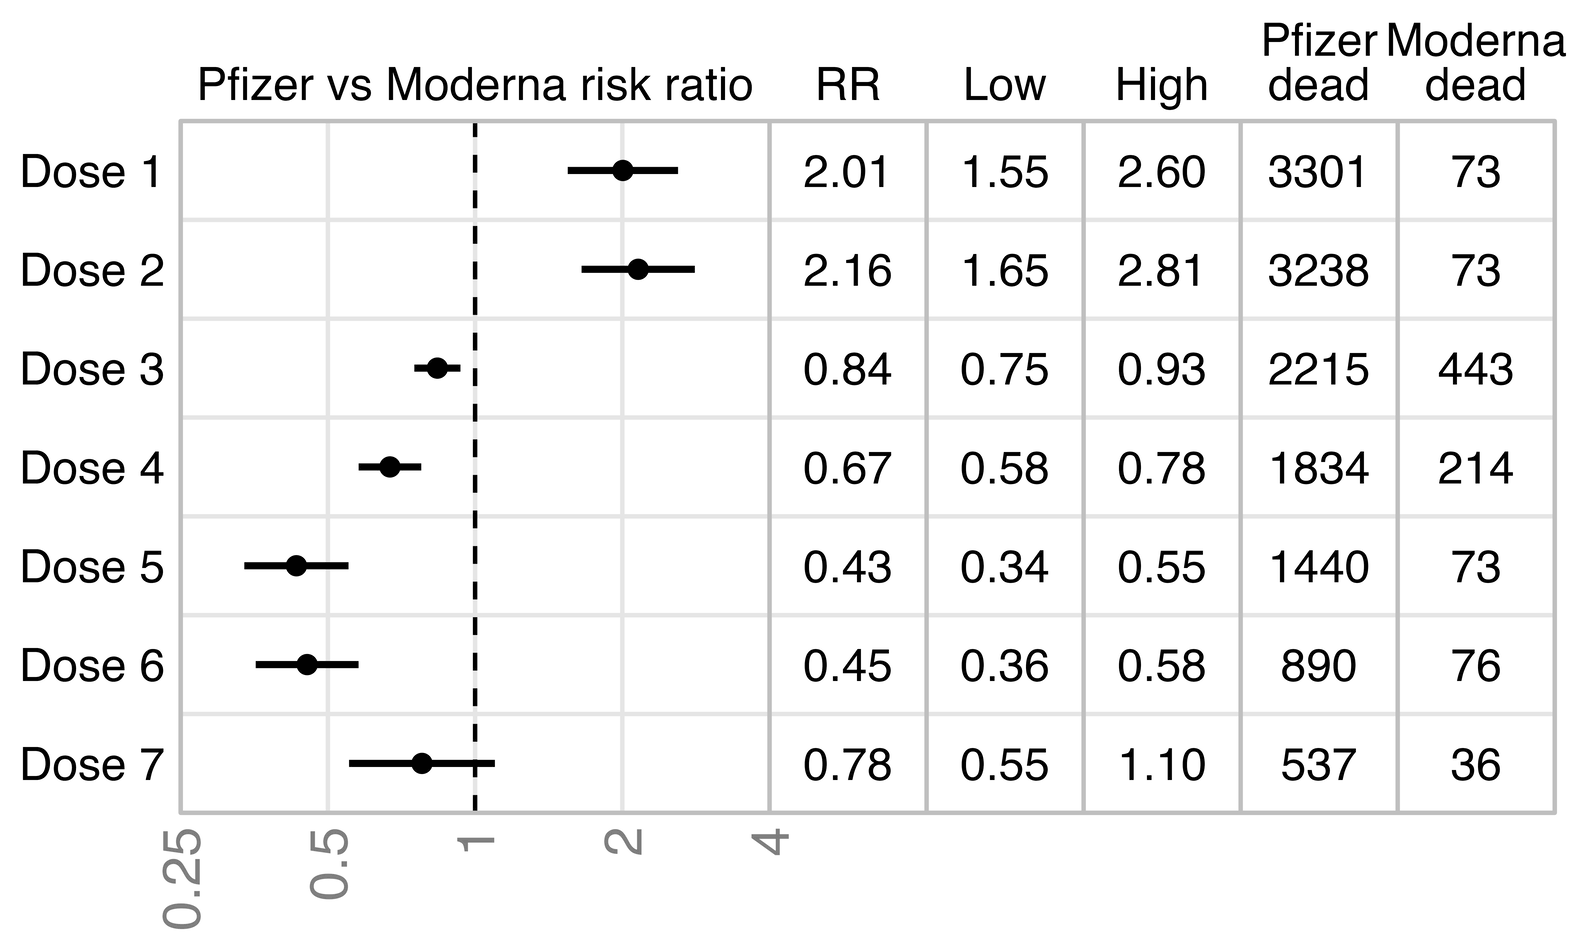
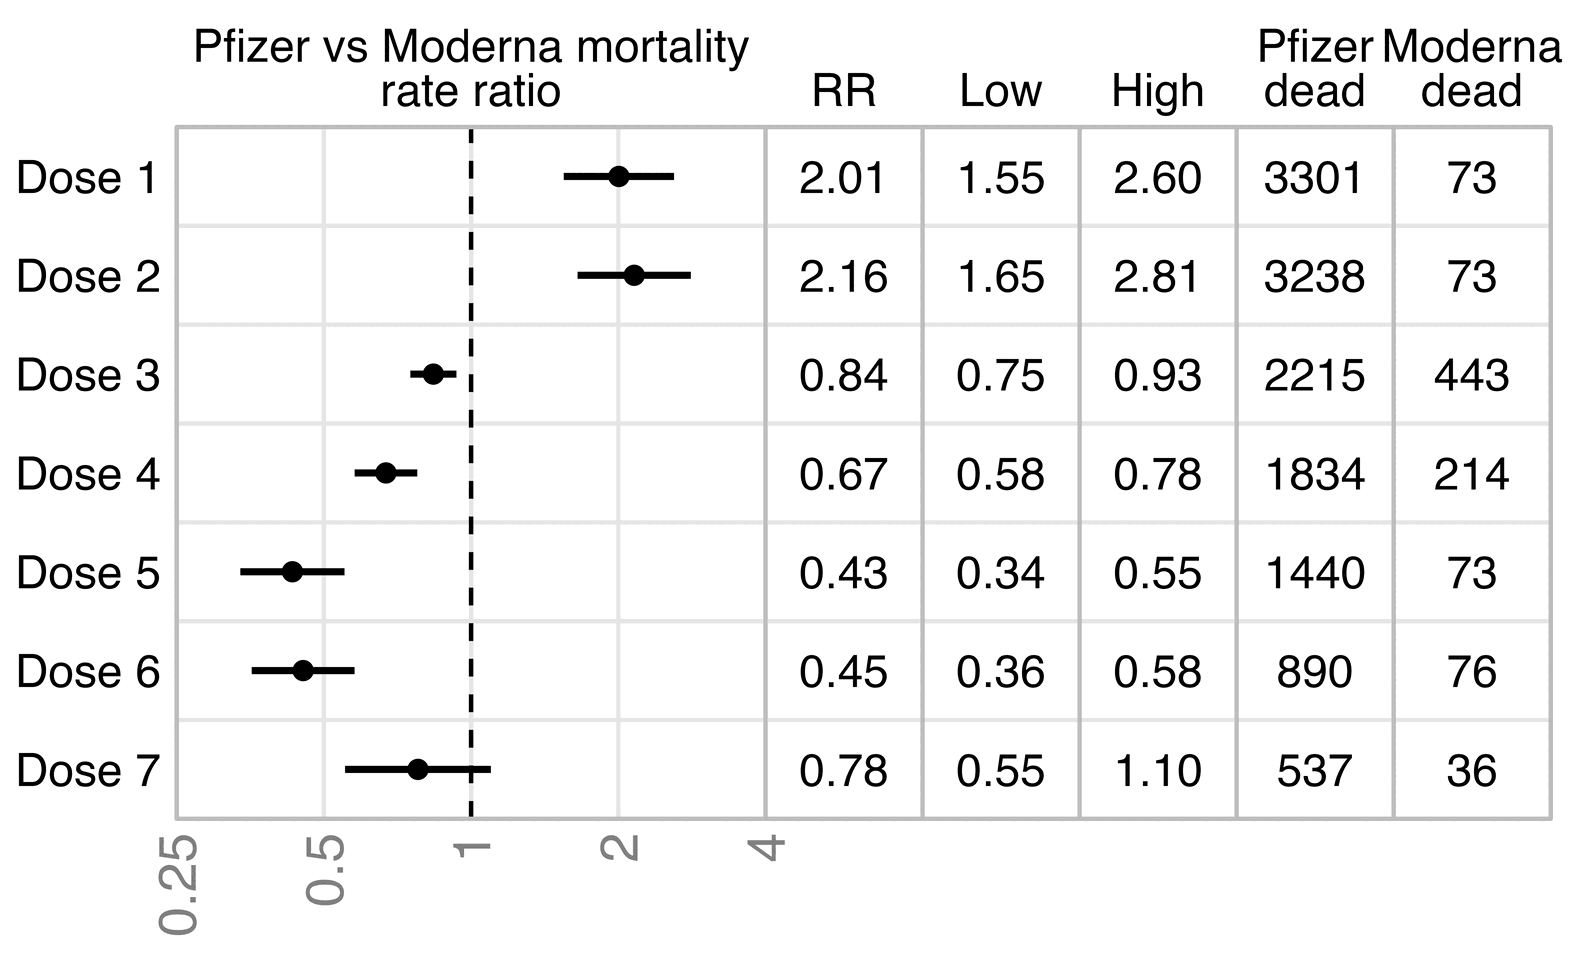
a

diff --git a/clot.html b/clot.html
@@ -1096,7 +1096,7 @@ RAIR Foundation
 <p>During the same interview, Mike Adams asked Hirschman to send another sample of clots to him, and he said <span class="quote">"By the way, just to honor the dead here. We are - you know, these people died, we believe from these clots. And I believe that if they could speak, they would want us to tell the world and sound out the alarm. And I don't want anyone out there to think, you know, that we are exploiting the tissues of these dead people for any kind of sensationalism."</span> [15:18]</p>
 <p>Even though that's exactly what Mike Adams did, when he claimed that the clots contained <span class="quote">"nanowire interface structures"</span>, and the clots contained electric circuits which may have made it possible to track people in a similar fashion as RFID chips, or which would've made it possible to kill people remotely by 5G or DEWs, or which would've caused people to die if there was a solar flare.</p>
 <p>Has Hirschman ever even said if he received consent from the families of the dead people to take samples from the dead bodies and send the samples all over the world? It seems like something embalmers wouldn't be allowed to do.</p>
-<p>Brenton Faithfull said that he didn't have any photos or samples of the clots because embalmers were not permitted to photograph dead bodies or remove samples from the bodies (even though the practice in the United States might be different from New Zealand): <span class="quote">"We've got to take into account the anonymity of of of patients. I don't have the authority to even photograph a deceased person, you know. The ethical dilemma that we face is as professionals - I think even permission to embalmer body is sought from a family - is in part of the contractual arrangements. And it's very loose, I think, most funeral homes have the same clause to perform any sanitary preservation in their judgment required, within the contract. Now that's a very loose term. Now, we don't have a license to practice anatomy, so technically we can't remove any samples. We're not allowed to."</span> [<a href=https://rumble.com/v1odcne-new-zealand-funeral-director-brenton-faithfull-first-interview..html?start=1754><a href="https://rumble.com/v1odcne-new-zealand-funeral-director-brenton-faithfull-first-interview" class="uri">https://rumble.com/v1odcne-new-zealand-funeral-director-brenton-faithfull-first-interview</a>..html?start=1754</a>]</p>
+<p>Brenton Faithfull said that he didn't have any photos or samples of the clots because embalmers were not permitted to photograph dead bodies or remove samples from the bodies (even though the practice in the United States might be different from New Zealand): <span class="quote">"We've got to take into account the anonymity of of of patients. I don't have the authority to even photograph a deceased person, you know. The ethical dilemma that we face is as professionals - I think even permission to embalmer body is sought from a family - is in part of the contractual arrangements. And it's very loose, I think, most funeral homes have the same clause to perform any sanitary preservation in their judgment required, within the contract. Now that's a very loose term. Now, we don't have a license to practice anatomy, so technically we can't remove any samples. We're not allowed to."</span> [<a href=https://rumble.com/v1odcne-new-zealand-funeral-director-brenton-faithfull-first-interview%2e.html?start=1754>https://rumble.com/v1odcne-new-zealand-funeral-director-brenton-faithfull-first-interview%2e.html?start=1754</a>]</p>
 <h3>
 <a href=#Interview_by_Wayne_Crouch_in_September_2022 id=Interview_by_Wayne_Crouch_in_September_2022>Interview by Wayne Crouch in September 2022</a>
 </h3>
@@ -1912,6 +1912,11 @@ ggsave(&quot;1.png&quot;,width=6,height=3.5,dpi=300*4)</pre>
 </div>
 <p>At time 1:21:34 Fitts said: <span class="quote">"We were part of a group of people trying to understand why there was spraying in the United States and all over the world, and what was in the spray, because it was causing Morgellons disease. You have these really unusual unnatural fibers that were getting into people's body. And we just did an interview with Clifford Carnicom who's been our sort of go-to source, and what he said is that the materials that he found in the spray are essentially the same materials that are getting into the injections."</span> I don't know if Carnicom meant spider silk, Morgellons fibers, Morgellons bacteria, or something else.</p>
 <p>At time 1:31:00 Fitts said: <span class="quote">"We - Ulli and I - had a lot of experience with Arne Burkhardt"</span>. I have an unpopular theory that Arne Burkhardt was a Quinta Columna type operative, but if he was connected to Fitts and Ulrike Granögger, then there's even more reason to be suspicious of him.</p>
+<hr />
+<p>In March 2022 when Matt Shelton spoke to a crowd outside the New Zealand parliament, he said <span class="quote">"I want to particularly recommend orwell.city - Orwell as in George Orwell's 1984 - orwell.city, and a site called lifeoftheblood.com"</span>. [<a href=https://rumble.com/vvaeng-dr.-matt-shelton-undeclared-components-found-in-covid-19-vaccines-18.02.22.html?start=121>https://rumble.com/vvaeng-dr.-matt-shelton-undeclared-components-found-in-covid-19-vaccines-18.02.22.html?start=121</a>] The orwell.city website now seems to be down, but it was a site that translated La Quinta Columna's content to English. [<a href=http://web.archive.org/web/20250522043914/https://www.orwell.city/>http://web.archive.org/web/20250522043914/https://www.orwell.city/</a>]</p>
+<p>He also said: <span class="quote">"We wrote on the 27th of September last year - to MedSafe administers - to alert that emerging finding from overseas of nanotechnology gadgets largely made of graphene, and known poisons in humans, in all the major brands tested. That work from Spain has now been confirmed elsewhere, including Germany, Austria, Argentina, and just last week, in a high-level science report from the UK, also with legally valid chain of custody proof. And you guys know what that means. That no fraud can have occurred, and the results are real."</span> [3:27] The Austrians probably refer to people at Arne Burkhardt's pathology conference. The website of the conference said that <span class="quote">"the press conference will also present the results of the analysis of COVID-19 vaccine samples by an Austrian research group"</span>. [<a href=https://pathologie-konferenz.de/en/>https://pathologie-konferenz.de/en/</a>]</p>
+<hr />
+<p>Hilary Butler who is a long-time anti-vaccine activist from New Zealand posted this comment at Substack: <span class="quote">"Dr Suzanne Humphries never spoke of nano bots or graphene. Matt Shelton visited Suzanne and persuaded her to hand over the files of her work under the guise of taking them to the police as evidence, only to go public and say anything he wanted to say. He will corroborate that he got the images from Dr Suzanne. Dr Suzanne wrote about Semmelweis in Dissolving Illusions and I happen to know that she used the name Nate Semmelwies early on (on masksaredangerous site which was created in a rush by an amateur friend of hers before covid vaccines were released when the mask issue was upsetting her) when she was anonymously talking about the images, only to later put them up on a site called lifeoftheblood, which she closed as she didn't want to keep paying for her server fees. She moved them to bitchute where they remain. Funny enough Jayne Ruby launched a surprise attack against Suzanne after the Joe Rogan podcast, where she accused Suzanne of <span class="quote">'coming out of nowhere'</span>."</span> [<a href=https://openvaet.substack.com/p/from-opioids-and-fraud-to-maga-and/comment/135014599>https://openvaet.substack.com/p/from-opioids-and-fraud-to-maga-and/comment/135014599</a>] I didn't actually see the name Nate Semmelweis mentioned in relation to the microscope images, but it was only mentioned in the earlier post on the website masksaredangerous.com.</p>
 <h3>
 <a href=#Azzard_Comrie id=Azzard_Comrie>Azzard Comrie</a>
 </h3>
@@ -1952,7 +1957,7 @@ ggsave(&quot;1.png&quot;,width=6,height=3.5,dpi=300*4)</pre>
 <div>
 <img src=i/clot-unholy.png width=400>
 </div>
-<p>Wayne Crouch is the <span class="quote">"head reporter"</span> at Australian National Review, which looks like an Aussie version of the Stew Peters Network. The front page of ANR's website even featured two interviews of Stew Peters: [<a href=https://anr.news>https://anr.news</a>]</p>
+<p>Wayne Crouch is the <span class="quote">"head reporter"</span> at Australian National Review, which looks like an Aussie version of the Stew Peters Network. When I wrote this, the front page of ANR's website even featured two interviews of Stew Peters: [<a href=https://anr.news>https://anr.news</a>]</p>
 <div>
 <img src=i/clot-anr.jpg width=300>
 </div>
@@ -3769,6 +3774,7 @@ a[,sum(dead[age&lt;50])/sum(dead)] # 0.05494073</pre>
 <a href=#Theresa_Long id=Theresa_Long>Theresa Long</a>
 </h3>
 <p>The DMED whistleblower Theresa Long is the person who is supposed to have randomly discovered Richard Hirschman by chance and connected him with Jane Ruby. Hirschman said: <span class="quote">"And then it happened that one of the whistleblowers - the DOD whistleblower, Dr. Theresa Long - just so happened to be attending a funeral service at one of the funeral homes that I do enbalming. And they got on this topic after the service - her and one of the funeral directors - and the funeral directors says, <span class="quote">'I know somebody you need to talk to.'</span> He put me in contact with her. I shared with her the images. And she was shocked because she was hearing things from soldiers that were having blood clots in their arms that were highly unusual. And so she ended up getting me in contact with Dr. Jane Ruby."</span> [<a href=https://rumble.com/v4buruf-truth-science-and-spirt-episode-6-rubbery-clots-conversation-with-richard-h.html?start=328>https://rumble.com/v4buruf-truth-science-and-spirt-episode-6-rubbery-clots-conversation-with-richard-h.html?start=328</a>] What makes Hirschman's chance encounter with Theresa Long even more suspicious is that Hirschman said that John O'Looney was one of his heroes, and he first saw a video by O'Looney around September, October, or November of 2021, which was before he met with Theresa Long by chance. [<a href=https://rumble.com/vucdbi-embalmer-richard-hirschman-reveals-novel-clotting-in-65-of-cases.html?start=1850>https://rumble.com/vucdbi-embalmer-richard-hirschman-reveals-novel-clotting-in-65-of-cases.html?start=1850</a>, <a href=https://rumble.com/v4buruf-truth-science-and-spirt-episode-6-rubbery-clots-conversation-with-richard-h.html?start=227>https://rumble.com/v4buruf-truth-science-and-spirt-episode-6-rubbery-clots-conversation-with-richard-h.html?start=227</a>]</p>
+<p>Theresa Long told Jane Ruby: <span class="quote">"You know, one of my nurses - her father died of COVID. And she and I were both kinda quietly - I mean, she was quietly fighting, I was not so quietly fighting. But she came back to me, and she said, <span class="quote">'Hey, the coroner mentioned to me that they knew my dad wasn't vaccinated.'</span> And she said - she asked, <span class="quote">'Why, how did you know that?'</span> And they said, <span class="quote">'Well, we didn't have to pull any of these clots out.'</span> And I said, <span class="quote">'What are - what are you talking about?'</span> And she said, <span class="quote">'Yeah. Here's his number. I though you might want to talk to him.'</span> So that is how that whole thing came about - and me meeting with Richard Hirschman - that just happened to occur because this nurse came to me."</span> [<a href=https://x.com/RealDrJaneRuby/status/1944124945874706944>https://x.com/RealDrJaneRuby/status/1944124945874706944</a>, time 2:23] It was not clear from her story how the coroner was connected to Hirschman.</p>
 <p>In 2024 Greg Hunter told Theresa Long that he believes that COVID vaccines change the DNA of vaccinated people. Then Theresa Long answered: <span class="quote">"I believe God's name is written on your DNA. The name of Yahweh. And Yahweh corresponds to the numbers 10-5-6-5, and that is the spacing of the base pairs in your DNA. And the 10th base pair, the 5th base pair, the 6th base pair, and then the 5th again, that's Yahweh."</span> [<a href=https://rumble.com/v5hysr1-fact-covid-vax-kills-and-injures-according-to-lt.-col.-dr.-theresa-long-md.html?start=2642>https://rumble.com/v5hysr1-fact-covid-vax-kills-and-injures-according-to-lt.-col.-dr.-theresa-long-md.html?start=2642</a>] Then Hunter said: <span class="quote">"And this does change that sequence. This does change that code."</span> And Long said: <span class="quote">"There is there is more and more research showing that it does change your DNA. Yeah that would be the basis for religious exemption."</span></p>
 <h3>
 <a href=#Todd_Callenders_claim_that_calamari_clots_are_5G_antennas id=Todd_Callenders_claim_that_calamari_clots_are_5G_antennas>Todd Callender's claim that calamari clots are 5G antennas</a>

diff --git a/fleming.html b/fleming.html
@@ -11,8 +11,8 @@ h2{font-size:1.7em}
 h3{font-size:1.3em}
 blockquote h2,blockquote h3{margin:.5em 0}
 blockquote ul,blockquote ol{margin:.4em 0}
-a{color:hsl(220,100%,75%)}
-a:visited{color:hsl(270,100%,75%)}
+a,a .quote{color:hsl(220,100%,75%)}
+a:visited,a .quote{color:hsl(270,100%,75%)}
 pre,code{white-space:pre-wrap;word-wrap:break-word;font:14px Menlo,'DejaVu Sans Mono','Liberation Mono',Consolas,monospace;background:#4a4a4a;color:white}
 pre{padding:4px}
 code{padding:1px}
@@ -699,7 +699,7 @@ $ awk &#39;$3==100&amp;&amp;$4&gt;=19&#39; Downloads/XRM91BX9013-Alignment.txt|c
 <div>
 <img src=i/modernagate-blast-2.png width=500>
 </div>
-<p>The total length of all sequences in the patent database in to March 2025 was about 28.3 billion bases. So about 4% of the total length was made up by sequences that were published before 2020 and that matched the keyword <span class="quote">"Moderna"</span>.</p>
+<p>The total length of all sequences in the patent database in March 2025 was about 28.3 billion bases. So about 4% of the total length was made up by sequences that were published before 2020 and that matched the keyword <span class="quote">"Moderna"</span>.</p>
 <p>This plot shows all matches with the same or lower expect value as the match to Jikky's 19-base segment:</p>
 <div>
 <img src=i/modernagate-blast-3.png width=1000>
@@ -1118,6 +1118,7 @@ AATGCGTCATCATCTGAAGCATTT   TATGCTTCAGATGATGACGCATAT
 <p>The scientific shortcomings of the aforementioned publication reflect the fact that the journal in which it was published is classified as a predatory journal. This particular journal does not meet even basic quality criteria, is not registered in recognized databases, has a very short review process and unclear review procedure, and does not have defined basic rules for presenting results and methodologies.</p>
 <p>The Slovak Academy of Sciences strictly condemns publishing in predatory journals and warns that publications published in this way do not bring value and are of no importance to the scientific community, medical practice, or the public.</p>
 </blockquote>
+<p>The paper by Fleming, Kotlár, and Pekova was published in a journal of the predatory publisher Herald Scholarly Open Access. [<a href=https://www.heraldopenaccess.us/openaccess/quantitative-analysis-of-nucleic-acid-content-in-spikevax-moderna-and-bnt162b2-pfizer-covid-19-vaccine-lots>https://www.heraldopenaccess.us/openaccess/quantitative-analysis-of-nucleic-acid-content-in-spikevax-moderna-and-bnt162b2-pfizer-covid-19-vaccine-lots</a>] One of their journals published a paper by Hellsing et al. about the benefit of garlic in fighting vampires, which said the purpose of the paper was <span class="quote">"improving the stature of vampire hunting among the scientifically literate populace, and testing whether or not AIMS journals are predatory"</span>. [<a href=https://www.heraldopenaccess.us/openaccess/allium-argenti-et-aqua-sancta-transgressing-molecular-boundaries-in-hematology-post-alucard>https://www.heraldopenaccess.us/openaccess/allium-argenti-et-aqua-sancta-transgressing-molecular-boundaries-in-hematology-post-alucard</a>]</p>
 <script>
 document.querySelectorAll('pre').forEach(e=>e.innerHTML=e.innerHTML.replace(/((^| )# [^\n]*|^#$)/mg,"<span class=comment>$1</span>"))
 

diff --git a/rootclaim5.html b/rootclaim5.html
@@ -2256,8 +2256,7 @@ ggsave(&quot;1.png&quot;,width=5,height=3,dpi=300*4)</pre>
 <a href=#Pfizer_Moderna_mortality_ratio_in_Japanese_Koganei_data id=Pfizer_Moderna_mortality_ratio_in_Japanese_Koganei_data>Pfizer-Moderna mortality ratio in Japanese Koganei data</a>
 </h3>
 <p>A few days after Steve Kirsch published a spreadsheet of the record-level data from Koganei in Japan, Kenji Fujikawa posted a CSV version of the data that also includes vaccine brands: <a href=https://medicalfacts.info/vdeath.rb.><a href="https://medicalfacts.info/vdeath.rb" class="uri">https://medicalfacts.info/vdeath.rb</a>.</a></p>
-<p>I used the CSV file to do a Poisson regression for mortality by vaccine brand, which I adjusted for age group, sex, observation month, and vaccination month. The risk ratio of Pfizer relative to Moderna was about 2.0 for first doses, 2.2 for second doses, 0.8 for third doses, 0.7 for 4th doses, and 0.4 for 5th doses, and 0.5 for 6th doses. So Pfizer had higher risk for primary course doses but Moderna had higher risk for booster doses:</p>
-<p>The third and fourth doses had the most deaths for Moderna so they had the narrowest confidence intervals. I kept people included under earlier doses after a new dose, so if someone died after getting a Moderna vaccine for the third dose and a Pfizer vaccine for the fourth dose, I counted their both death under Moderna for the third dose and under Pfizer for the fourth dose:</p>
+<p>I used the CSV file to do a Poisson regression for mortality by vaccine brand, which I adjusted for age group, sex, observation month, and vaccination month. The mortality rate ratio of Pfizer relative to Moderna was about 2.0 for first doses, 2.2 for second doses, 0.8 for third doses, 0.7 for 4th doses, and 0.4 for 5th doses, and 0.5 for 6th doses. So Pfizer had higher mortality for primary course doses but Moderna had higher mortality for booster doses:</p>
 <pre>t=fread(&quot;https://sars2.net/f/koganeibucketskeep.csv.gz&quot;)
 
 s=t[brand%like%&quot;Mod|Pfi&quot;]
@@ -2279,7 +2278,8 @@ print(round(merge(rr,dead),2),r=F)
 #    5 0.43 0.34 0.55       1440          73
 #    6 0.45 0.36 0.58        890          76
 #    7 0.78 0.55 1.10        537          36</pre>
-<p>Here's a plot of the same data, where you can see how on a log scale dose 3 has a much narrower CI than dose 4, even though the CIs have similar width without log transformation:</p>
+<p>The third and fourth doses had the most deaths for Moderna so they had the narrowest confidence intervals. I kept people included under earlier doses after a new dose, so if someone died after getting a Moderna vaccine for the third dose and a Pfizer vaccine for the fourth dose, I counted their both death under Moderna for the third dose and under Pfizer for the fourth dose.</p>
+<p>Here's a plot of the same data, where you can see how dose 3 has a much narrower CI than dose 4 on a log scale, even though the CIs have similar width without log transformation:</p>
 <div>
 <img src=i/rootclaim-koganeiwhisker.png width=500>
 </div>
